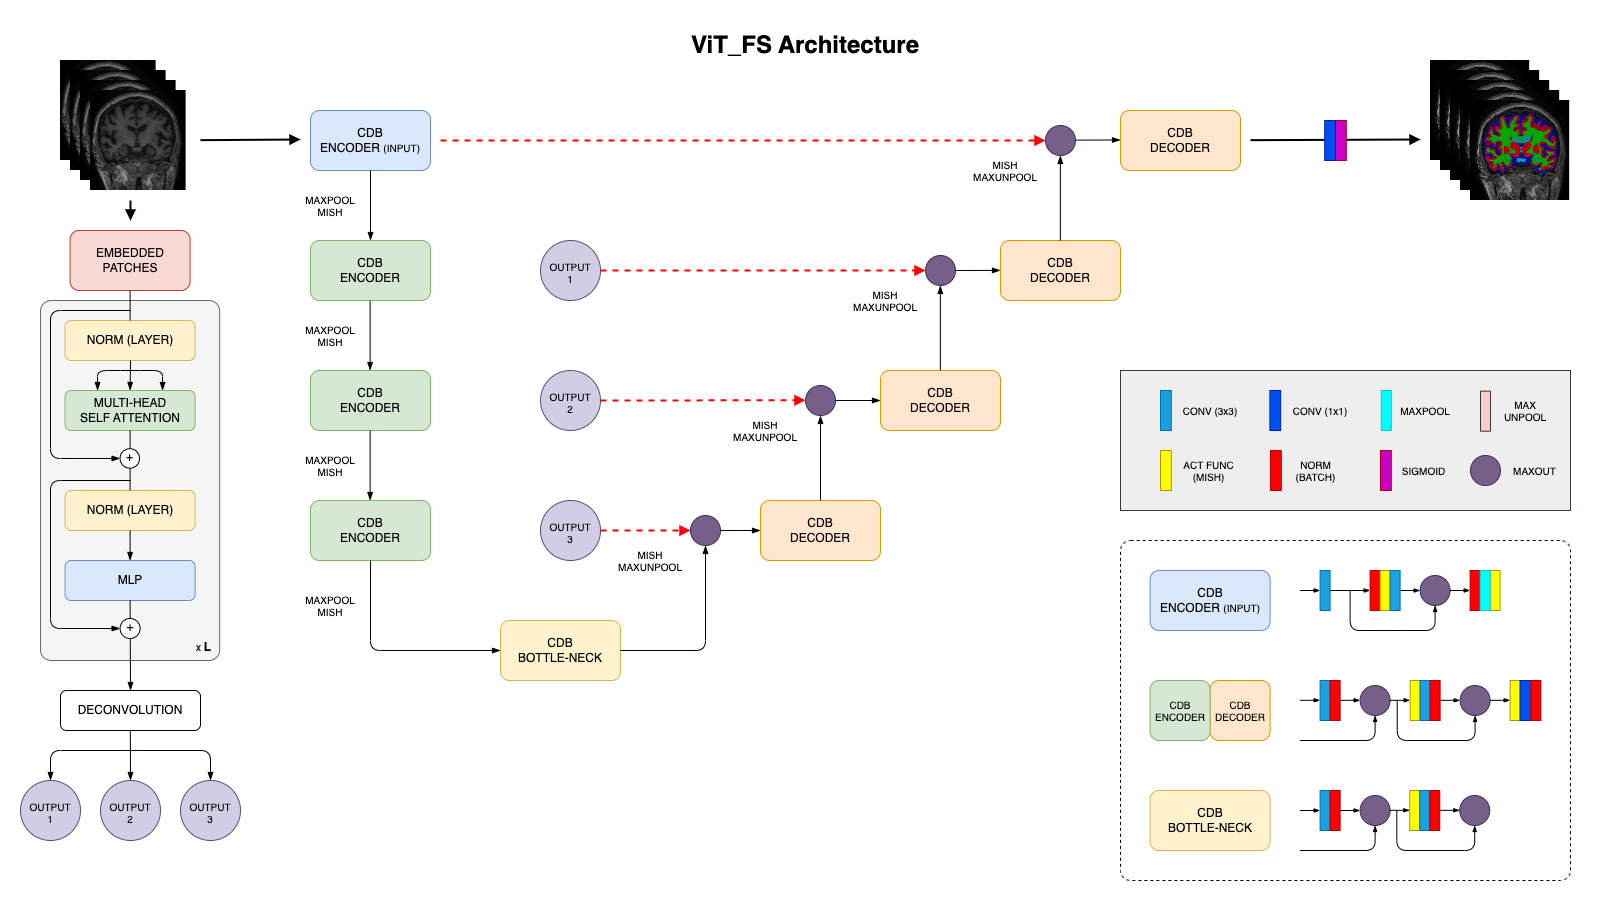
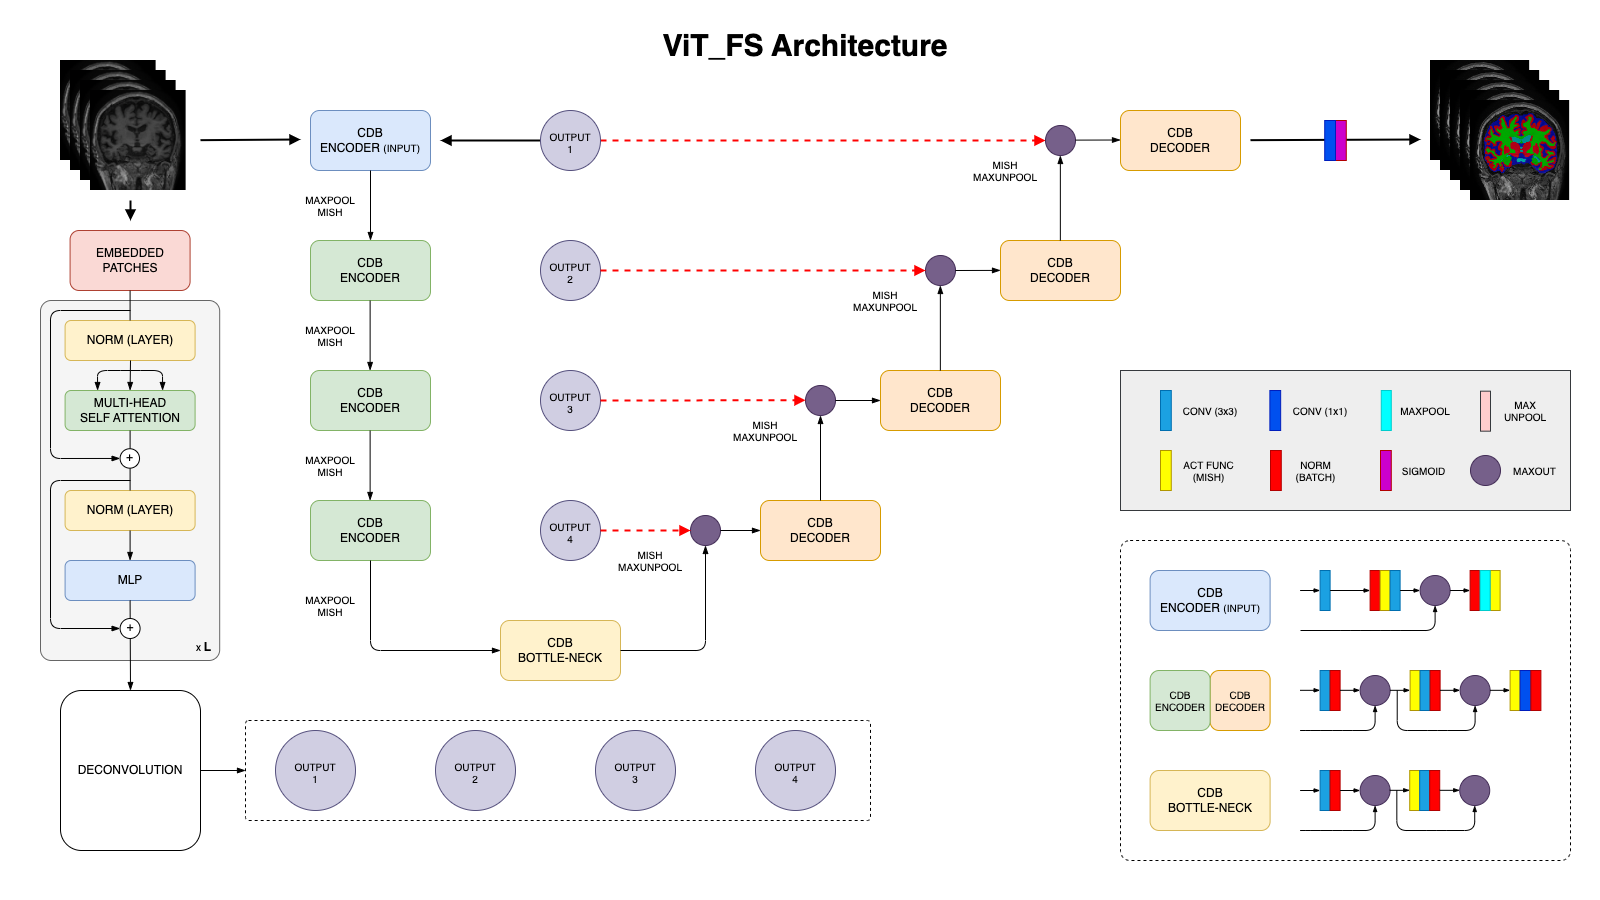
modified: network(ViT)

diff --git a/Net/ViT_fsCNN/vit.py b/Net/ViT_fsCNN/vit.py
@@ -88,7 +88,7 @@ class MLP(nn.Module):
 
         self.linear_layer1 = nn.Linear(self.emb_size, self.expansion * self.emb_size)
         self.linear_layer2 = nn.Linear(self.expansion * self.emb_size, self.emb_size)
-        self.relu = nn.GELU()#.SiLU()
+        self.relu = nn.GELU()
         self.dropout = nn.Dropout()
 
 
@@ -163,7 +163,7 @@ class ViT(nn.Module):
         params['num_layers'] = params['num_layers'] if params['num_layers'] else 4
         self.patch_size = params['patch_size']
         
-        self.patch = (self.patch_size*2, self.patch_size*2, self.patch_size*2) 
+        self.patch = self.patch_size*2
         self.patch1 = self.patch_size
         self.patch2 = int(self.patch_size/2) 
         self.patch3 = int(self.patch_size/4) 
@@ -172,18 +172,20 @@ class ViT(nn.Module):
         self.emb_size = params['emb_size']
         self.proj_axis = (0, 3 + 1) + tuple(d + 1 for d in range(3)) # 3D
         
-        self.feat_size = tuple(img_d // p_d for img_d, p_d in zip(self.img_size, self.patch))
+        self.feat_size = tuple(img_d // p_d for img_d, p_d in zip(self.img_size, (self.patch, self.patch, self.patch)))
         self.proj_reshape = list(self.feat_size) + [self.emb_size]
         
         self.input_c = int(params['num_channels']) # N2C
 
         self.tf_enc_layer1 = TF_enc(params)
 
-        # self.deconv_layer1 = nn.ConvTranspose3d(in_channels=self.emb_size, out_channels=self.input_c, kernel_size=self.patch, stride=self.patch)
+        self.deconv_layer1 = nn.ConvTranspose3d(in_channels=self.emb_size, out_channels=self.input_c, kernel_size=self.patch, stride=self.patch)
         self.deconv_layer2 = nn.ConvTranspose3d(in_channels=self.emb_size, out_channels=self.input_c, kernel_size=self.patch1, stride=self.patch1)
         self.deconv_layer3 = nn.ConvTranspose3d(in_channels=self.emb_size, out_channels=self.input_c, kernel_size=self.patch2, stride=self.patch2)
         self.deconv_layer4 = nn.ConvTranspose3d(in_channels=self.emb_size, out_channels=self.input_c, kernel_size=self.patch3, stride=self.patch3)
 
+        ### use another 3d reshape method instead of ConvTranspose3d
+        
 
     def proj_feat(self, x):
         new_shape = [x.size()[0]] + self.proj_reshape
@@ -195,19 +197,19 @@ class ViT(nn.Module):
 
     def forward(self, x): 
         x_out = self.tf_enc_layer1(x)
-        middle = int(len(x_out)/2)
+        middle = int(len(x_out)/4)
 
         ### each output enters into the skip-connection layer(concatenate with the previous decoder output) 
-        # x_out_raw = self.proj_feat(x_out[0])
-        x_out1 = self.proj_feat(x_out[0])
-        x_out2 = self.proj_feat(x_out[middle])
+        x_out_raw = self.proj_feat(x_out[0])
+        x_out1 = self.proj_feat(x_out[int(middle*2)])
+        x_out2 = self.proj_feat(x_out[int(middle*3)])
         x_out3 = self.proj_feat(x_out[-1])
 
         ### deconvolution
         ### b, num_filters, h, w, d ex) 1, 32, 128, 128, 128
-        # x_out_raw = self.deconv_layer1(x_out_raw).transpose(0, 1)
+        x_out_raw = self.deconv_layer1(x_out_raw).transpose(0, 1)
         x_out1 = self.deconv_layer2(x_out1).transpose(0, 1)
         x_out2 = self.deconv_layer3(x_out2).transpose(0, 1)
         x_out3 = self.deconv_layer4(x_out3).transpose(0, 1)
 
-        return x_out1, x_out2, x_out3 #x_out_raw, 
+        return x_out_raw, x_out1, x_out2, x_out3 

diff --git a/Net/ViT_fsCNN/network.py b/Net/ViT_fsCNN/network.py
@@ -72,13 +72,14 @@ class CDB_Basic(CDB_struc):
         
         
     ## ActFunction(Previous Block) > [CONV - BN - (cat, max) - ActFunction]*2 - [CONV - BN] > OUTPUT
-    def forward(self, x):
+    def forward(self, x, vit_x=None):
         dim = self.dim + 2
         
         # [CONV - BN - (cat, max) - ActFunction]*2
         x1 = self.conv_layer1(x)
         x1_bn = torch.unsqueeze(self.bn0(x1), dim)
-        x0 = torch.unsqueeze(x, dim)
+        # x0 = torch.unsqueeze(x, dim) # raw
+        x0 = torch.unsqueeze(vit_x, dim) if vit_x != None else torch.unsqueeze(x, dim)
         
         x2 = torch.cat((x1_bn, x0), dim=dim)           # maxout
         x2_max, _ = torch.max(x2, dim)                 # maxout
@@ -113,7 +114,7 @@ class CDB_Input(CDB_struc):
         
         
     ## INPUT > BN > [CONV - BN - ActFunction] > [CONV - BN - (cat, max) - ActFunction] - [CONV - BN] > MAXPOOL > OUTPUT    
-    def forward(self, x):        
+    def forward(self, x, vit_x):        
         dim = self.dim + 2 # dimension 4(2d), 5(3d)
 
         x0 = self.conv_layer1(x)
@@ -122,7 +123,8 @@ class CDB_Input(CDB_struc):
         x1 = self.relu(x1_bn)
 
         x1 = self.conv_layer2(x1)
-        x2 = torch.cat((torch.unsqueeze(x1, dim), torch.unsqueeze(x0, dim)), dim=dim)
+        # x2 = torch.cat((torch.unsqueeze(x1, dim), torch.unsqueeze(x0, dim)), dim=dim)
+        x2 = torch.cat((torch.unsqueeze(x1, dim), torch.unsqueeze(vit_x, dim)), dim=dim)
         x_out, _ = torch.max(x2, dim)
 
         x_out = self.bn2(x_out)
@@ -145,8 +147,9 @@ class CDB_Enc(CDB_Basic):
 
 
     ## CDB Basic Block > ENC(Max Pooling Layer)
-    def forward(self, x):        
-        x_out = super(CDB_Enc, self).forward(x) # skip
+    def forward(self, x, vit_x):        
+        # x_out = super(CDB_Enc, self).forward(x) # skip
+        x_out = super(CDB_Enc, self).forward(x, vit_x) # skip
         out_enc, indices = self.maxpool(x_out)
         out_enc = self.relu(out_enc)
     
@@ -318,19 +321,19 @@ class fsCNN(nn.Module):
             logits = self.output.forward(out_dec1)
 
         else: # dim 3
-            x1, x2, x3 = self.vit_out(x) #, x0
+            x0, x1, x2, x3 = self.vit_out(x)
     
-            skip_enc1, out_enc1, indice1 = self.input.forward(x) # x0(TF enc output), x(raw)
-            skip_enc2, out_enc2, indice2 = self.enc1.forward(out_enc1)
-            skip_enc3, out_enc3, indice3 = self.enc2.forward(out_enc2)
-            skip_enc4, out_enc4, indice4 = self.enc3.forward(out_enc3) 
+            skip_enc1, out_enc1, indice1 = self.input.forward(x, x0) # x0(TF enc output), x(raw)
+            skip_enc2, out_enc2, indice2 = self.enc1.forward(out_enc1, x1)
+            skip_enc3, out_enc3, indice3 = self.enc2.forward(out_enc2, x2)
+            skip_enc4, out_enc4, indice4 = self.enc3.forward(out_enc3, x3) 
 
             bottle_neck = self.bottle_neck(out_enc4)
                         
             out_dec4 = self.dec4.forward(bottle_neck, x3, indice4)
             out_dec3 = self.dec3.forward(out_dec4, x2, indice3)
             out_dec2 = self.dec2.forward(out_dec3, x1, indice2)
-            out_dec1 = self.dec1.forward(out_dec2, skip_enc1, indice1)
+            out_dec1 = self.dec1.forward(out_dec2, x0, indice1)
 
             logits = self.output.forward(out_dec1)
 
